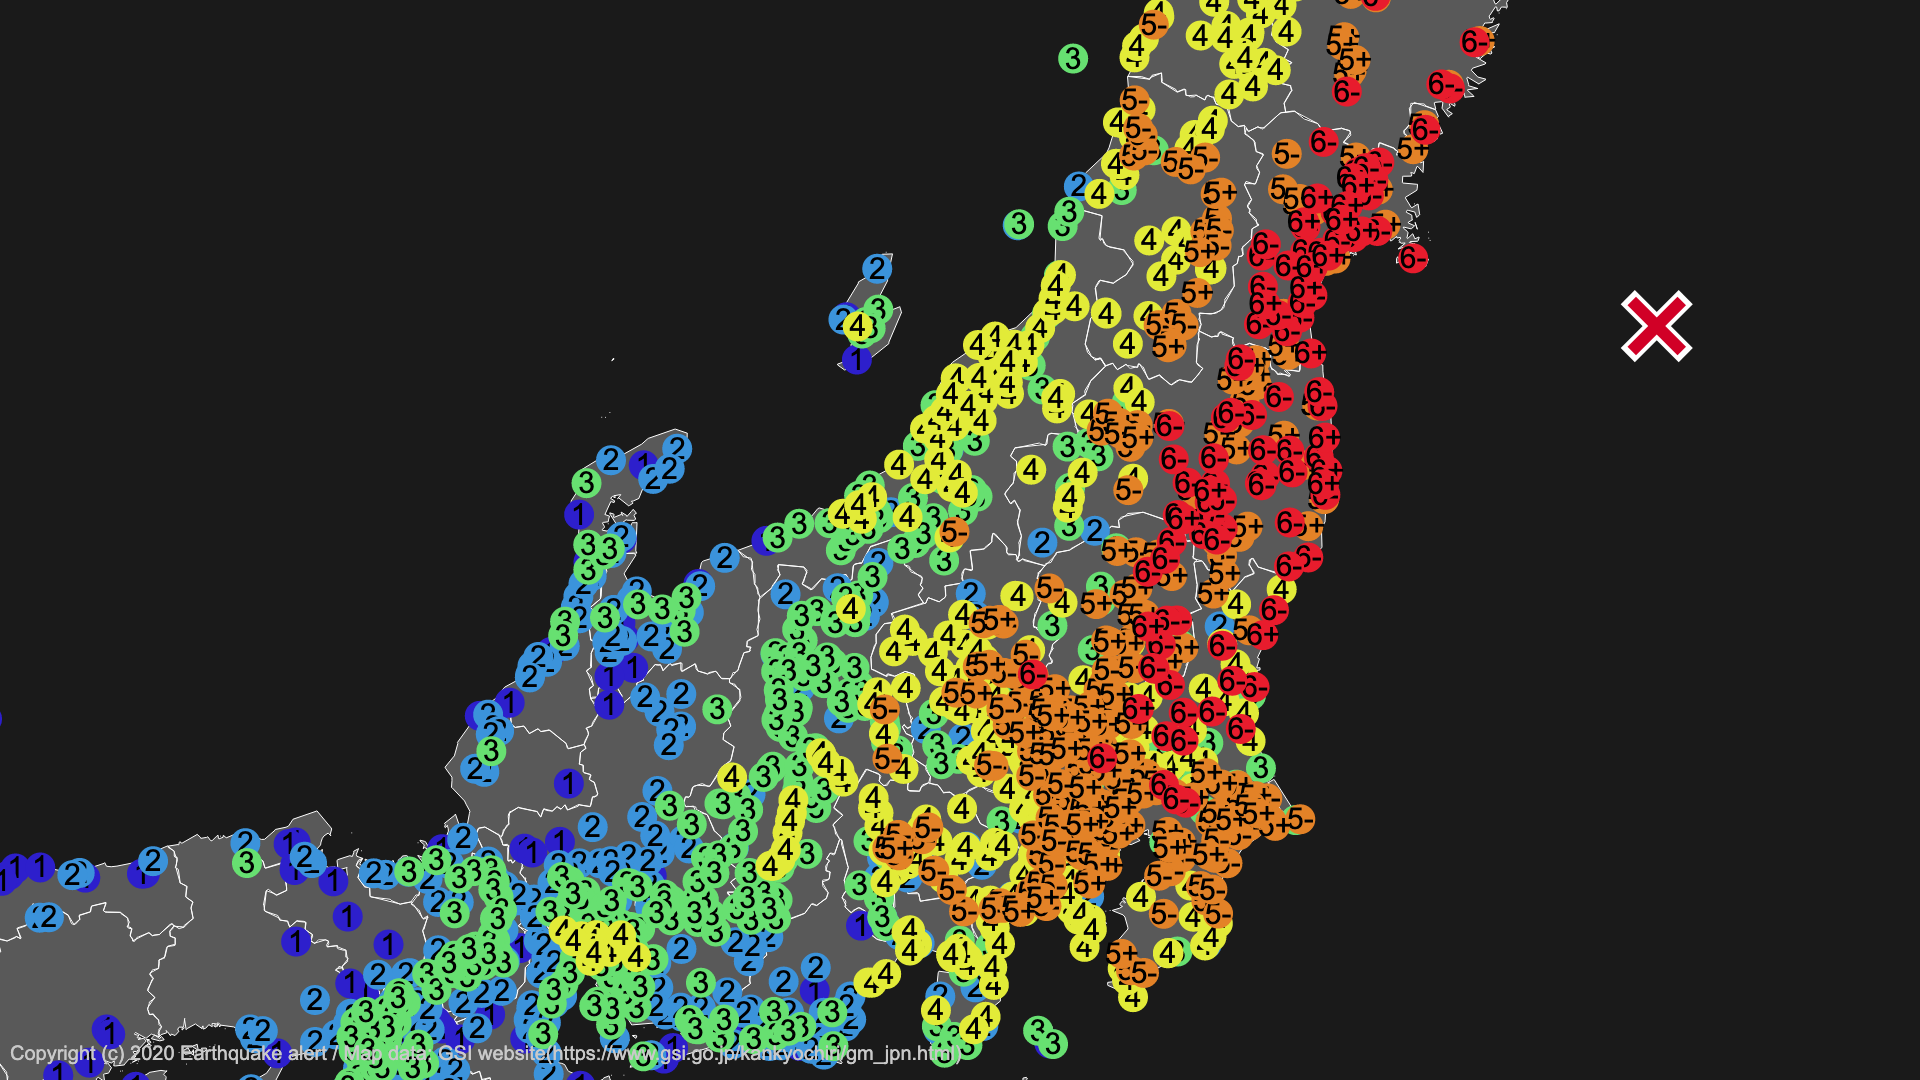
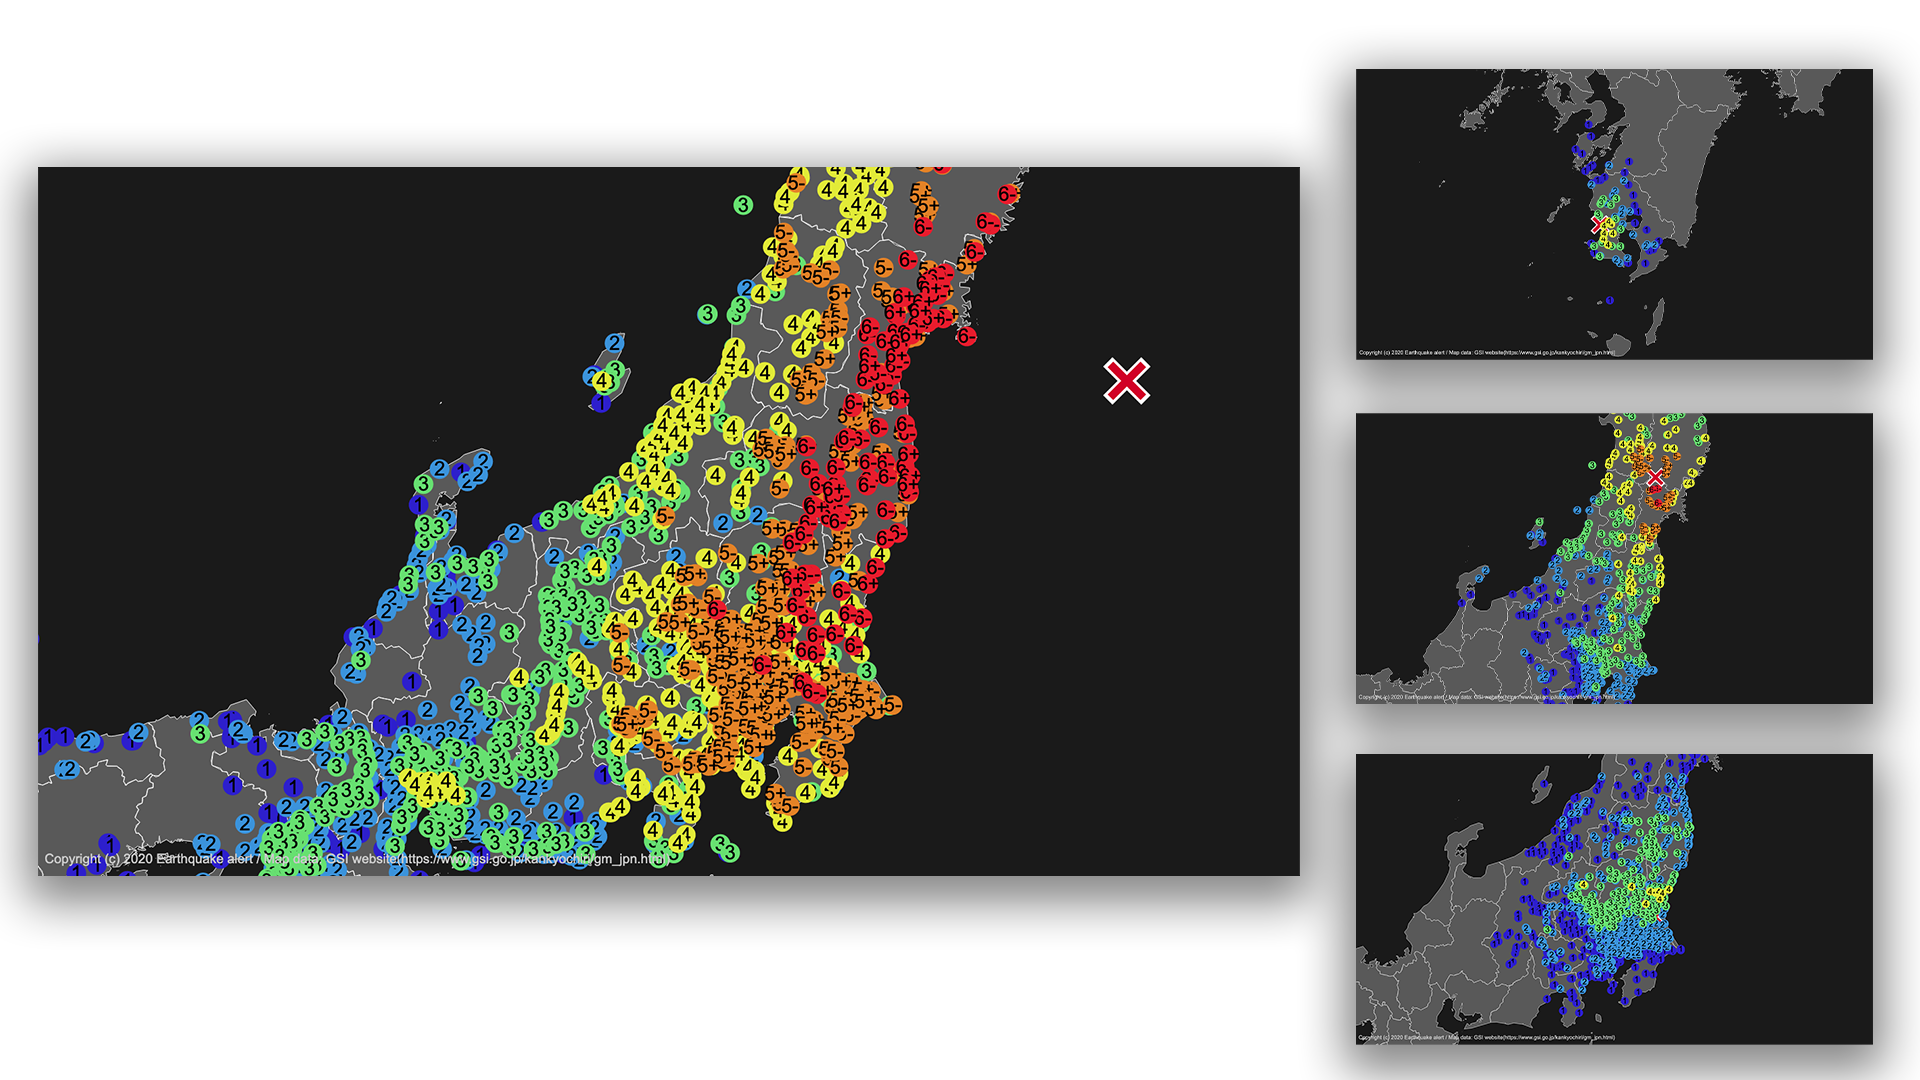
タイトル画像の変更

diff --git a/documents/README_en.md b/documents/README_en.md
@@ -5,8 +5,7 @@
 
 [🇯🇵](../README.md)| 🇺🇸
 
-<img src="../assets/title.png" width="50%"><img src="../assets/title_2.png" width="50%">
-<img src="../assets/title_3.png" width="50%"><img src="../assets/title_4.png" width="50%">
+![title](../assets/title.png)
 
 ## tl;dr
 

diff --git a/README.md b/README.md
@@ -5,8 +5,7 @@
 
 🇯🇵| [🇺🇸](documents/README_en.md)
 
-<img src="assets/title.png" width="50%"><img src="assets/title_2.png" width="50%">
-<img src="assets/title_3.png" width="50%"><img src="assets/title_4.png" width="50%">
+![title](assets/title.png)
 
 ## tl;dr
 
